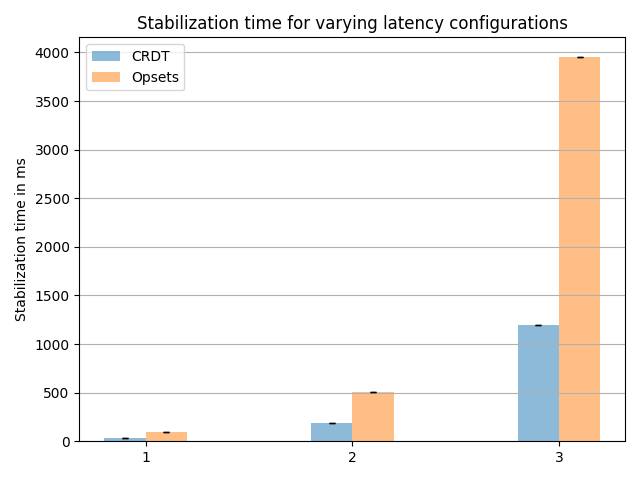
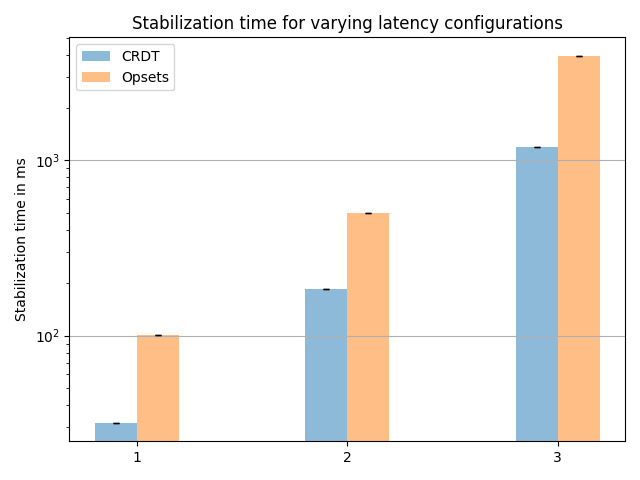
changed scale to logarithmic

diff --git a/reports/report_generator.py b/reports/report_generator.py
@@ -371,7 +371,7 @@ ax.set_xticklabels([1, 2, 3])
 ax.set_title('Stabilization time for varying latency configurations')
 ax.legend((bar0[0], bar1[0]), ('CRDT', 'Opsets'))
 ax.yaxis.grid(True)
-
+plt.yscale('log') #logarithmic scale
 # Save the figure and show
 plt.tight_layout()
 plt.savefig('stabilization_time.png')
